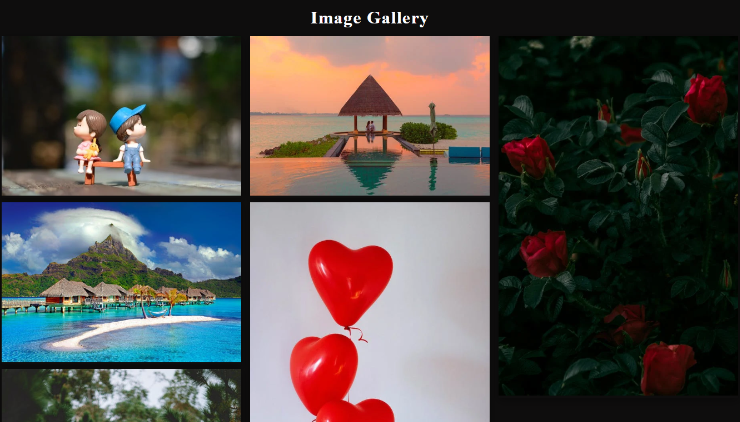
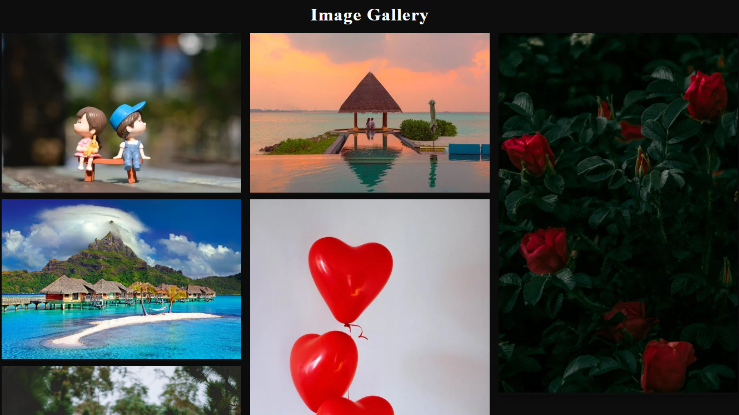
feat:adjust images

diff --git a/pages/index.tsx b/pages/index.tsx
@@ -105,23 +105,19 @@ export default function Home() {
 
             </h3>
           </div>
-          <div>
-            <Image src={web1}></Image>
+          <div className="flex flex-col gap-5 py-5 lg:flex-row lg:flex-wrap">
+          <div className="basis-1/3 flex-1">
+            <Image src={web1} className="rounded-lg object-contain" width={'100%'} height={'100%'} layout="responsive"></Image>
           </div>
-          <div>
-            <Image src={web2}></Image>
+          <div className="basis-1/3 flex-1">
+            <Image src={web2} className="rounded-lg object-contain" width={'100%'} height={'100%'} layout="responsive"></Image>
           </div>
-          <div>
-            <Image src={web3}></Image>
+          <div className="basis-1/3 flex-1">
+            <Image src={web3} className="rounded-lg object-contain" width={'100%'} height={'100%'} layout="responsive"></Image>
           </div>
-          <div>
-            <Image src={web4}></Image>
+          <div className="basis-1/3 flex-1">
+            <Image src={web4} className="rounded-lg object-contain" width={'100%'} height={'100%'} layout="responsive"></Image>
           </div>
-          <div>
-            <Image src={web5}></Image>
-          </div>
-          <div>
-            <Image src={web6}></Image>
           </div>
         </section>
       </main>
